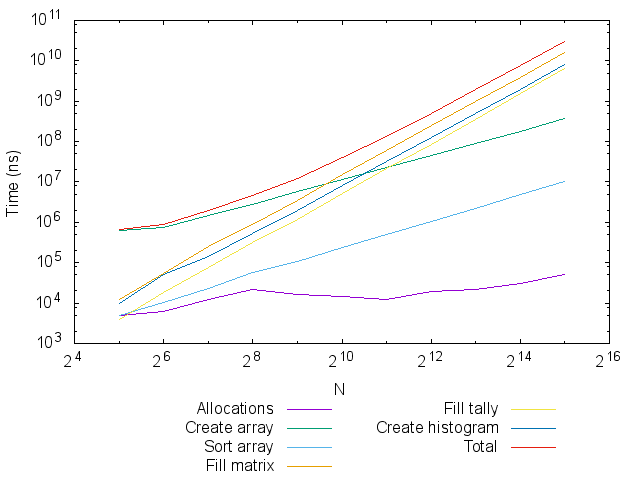
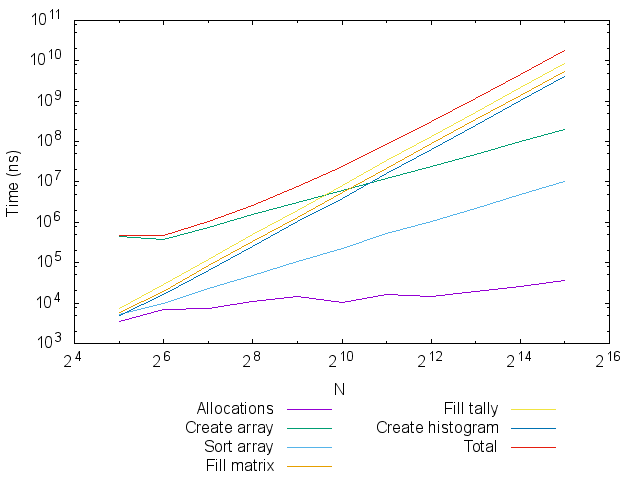
Exploited symmetry.

diff --git a/src/common/funcs.c b/src/common/funcs.c
@@ -19,6 +19,7 @@
 
 #include "funcs.h"
 #include <utilities/logging.h>
+#include <utilities/integer.h>
 #include <math.h>
 #include <float.h>
 #include <stdio.h>
@@ -34,6 +35,23 @@ unsigned rng(){
 }
 float_t rngf(float_t min, float_t max){
   return min+((float_t)rng()/RAND_MAX)*(max-min);
+}
+
+unsigned sym_matrix_coordinate(unsigned x, unsigned y, unsigned size){ //http://stackoverflow.com/q/19143657/6019199
+  // unsigned index = x + (size-1)*y - (y*y-y) / 2;
+  ////report(INFO, "(%u, %u) -> %u (%u)", x,y, x+triag_nr(size)-triag_nr(size-y)-y, size);
+  if(x < y){
+    return sym_matrix_coordinate(y,x,size);
+  }
+  return x+triag_nr(size)-triag_nr(size-y)-y; //triag_nr can overflow for > sqrt(UNSIGNED_MAX), 64k for 32 bit.
+}
+
+float_t sym_matrix_get(float_t *matrix, unsigned x, unsigned y, unsigned size){
+  return matrix[sym_matrix_coordinate(x,y,size)];
+}
+
+void sym_matrix_set(float_t *matrix, float_t value, unsigned x, unsigned y, unsigned size){
+  matrix[sym_matrix_coordinate(x,y,size)] = value;
 }
 
 star_t create_random_star(){
@@ -115,8 +133,8 @@ void sort(star_t* array, int n){//Quicksort, modified from http://rosettacode.or
 void fill_matrix(star_t *array, float_t *matrix, int size)
 {
   for(unsigned u = 0; u < size; u++){
-    for(unsigned w = 0; w < size; w++){
-      matrix[u*size+w] = starfunc(array[u], array[w]) + star_dist(array[u], array[w]);
+    for(unsigned w = u; w < size; w++){
+     sym_matrix_set(matrix, starfunc(array[u], array[w]) + star_dist(array[u], array[w]), w, u, size);
     }
   }
 }
@@ -128,27 +146,38 @@ void print_matrix(float_t* theMatrix, int n)
   for(i = 0 ; i < n; i++)
     {
       for(j = 0 ; j < n ; j++)
-	printf("%.2f " , theMatrix[i*n+j]);
+	printf("%1.4e " , sym_matrix_get(theMatrix, j, i, n));
       putchar('\n');
     }
 }
 
 void create_tally_matrix(float_t *in, float_t* out, unsigned N){
   for(unsigned u = 1; u < N-1; u++){
-    for(unsigned w = 1; w < N-1; w++){
-      float_t center = in[u*N+w];
-      float_t up = in[(u+1)*N+w];
-      float_t down = in[(u-1)*N+w];
-      float_t left = in[u*N+w-1];
-      float_t right = in[u*N+w+1];
-      out[(u-1)*(N-2)+w-1] = 0.25*(fabs(center-up) + fabs(center-down) + fabs(center-left) + fabs(center-right));
+    for(unsigned w = u; w < N-1; w++){
+      float_t center = sym_matrix_get(in, w, u, N);
+      float_t up = sym_matrix_get(in, w, u+1, N);
+      float_t down = sym_matrix_get(in, w, u-1, N);
+      float_t left = sym_matrix_get(in, w-1,u, N);
+      float_t right = sym_matrix_get(in, w+1, u, N);
+      float_t mean_abs_diff = 0.25*(fabs(center-up) + fabs(center-down) + fabs(center-left) + fabs(center-right));
+      sym_matrix_set(out, mean_abs_diff, w-1, u-1, N-2);
     }
   }
 }
 
+unsigned get_hist_index(float_t min, float_t bin_size, unsigned hist_size, float_t val){
+  unsigned hist_index;
+  for(hist_index = 0; hist_index < hist_size-1; hist_index++){
+    if(min + bin_size*(1+hist_index) > val){
+      break;
+    }
+  }
+  return hist_index;
+}
+
 hist_param_t generate_histogram(float_t *matrix, int *histogram, int mat_size, int hist_size){
   float_t min = FLT_MAX, max = -min;
-  for(unsigned u = 0; u < mat_size*mat_size; u++){
+  for(unsigned u = 0; u < mat_size*(1+mat_size)/2; u++){//TODO: calculate when filling matrix
     if(matrix[u] > max){
       max = matrix[u];
     }
@@ -163,14 +192,14 @@ hist_param_t generate_histogram(float_t *matrix, int *histogram, int mat_size, i
     .bin_size = (max-min)/hist_size
   };
   for(unsigned u = 0; u < mat_size; u++){
-    for(unsigned w = 0; w < mat_size; w++){
-      unsigned hist_index;
-      for(hist_index = 0; hist_index < hist_size-1; hist_index++){
-        if(param.min + param.bin_size*(1+hist_index) > matrix[u*mat_size+w]){
-          break;
-        }
-      }
-      histogram[hist_index] += 1;
+    unsigned b = triag_nr(mat_size)-triag_nr(mat_size-u);
+    unsigned index = get_hist_index(min, param.bin_size, hist_size, matrix[b]);
+    //report(INFO, "[%u] adding 1x%e to index %u",b, matrix[b], index);
+    histogram[index] += 1;
+    for(unsigned o = 1;o < mat_size-u;o++){
+      unsigned index = get_hist_index(min, param.bin_size, hist_size, matrix[b+o]);
+      histogram[index] += 2;
+      //report(INFO, "[%u] adding 2x%e to index %u",b+o, matrix[b+o], index);
     }
   }
   return param;

diff --git a/src/timmings.c b/src/timmings.c
@@ -14,6 +14,7 @@
 #include <errno.h>
 #include <string.h>
 #include <utilities/logging.h>
+#include <utilities/integer.h>
 #include <utilities/benchmarking.h>
 #include <math.h>
 #include <time.h>
@@ -35,12 +36,12 @@ int main(int argc, char **argv)
       report(FAIL, "Failed to allocate star array: %s (%d)", strerror(errno), errno);
       return -1;
     }
-    float_t *matrix = malloc(sizeof(float_t)*N*N);
+    float_t *matrix = malloc(sizeof(float_t)*triag_nr(N));
     if(!matrix){
       report(FAIL, "Failed to allocate matrix: %s (%d)", strerror(errno), errno);
       return -1;
     }
-    float_t *tally = malloc(sizeof(float_t)*(N-2)*(N-2));
+    float_t *tally = malloc(sizeof(float_t)*triag_nr(N-2));
     if(!matrix){
       report(FAIL, "Failed to allocate tally: %s (%d)", strerror(errno), errno);
       return -1;

diff --git a/headers/funcs.h b/headers/funcs.h
@@ -16,6 +16,10 @@
 unsigned rng();
 float_t rngf(float_t min, float_t max);
 
+unsigned sym_matrix_coordinate(unsigned x, unsigned y, unsigned size);
+float_t sym_matrix_get(float_t *matrix, unsigned x, unsigned y, unsigned size);
+void sym_matrix_set(float_t *matrix, float_t value, unsigned x, unsigned y, unsigned size);
+
 void create_random_array(star_t * array, int size);
 void sort(star_t* array, int n);
 void print_stars(star_t* array, int n);
